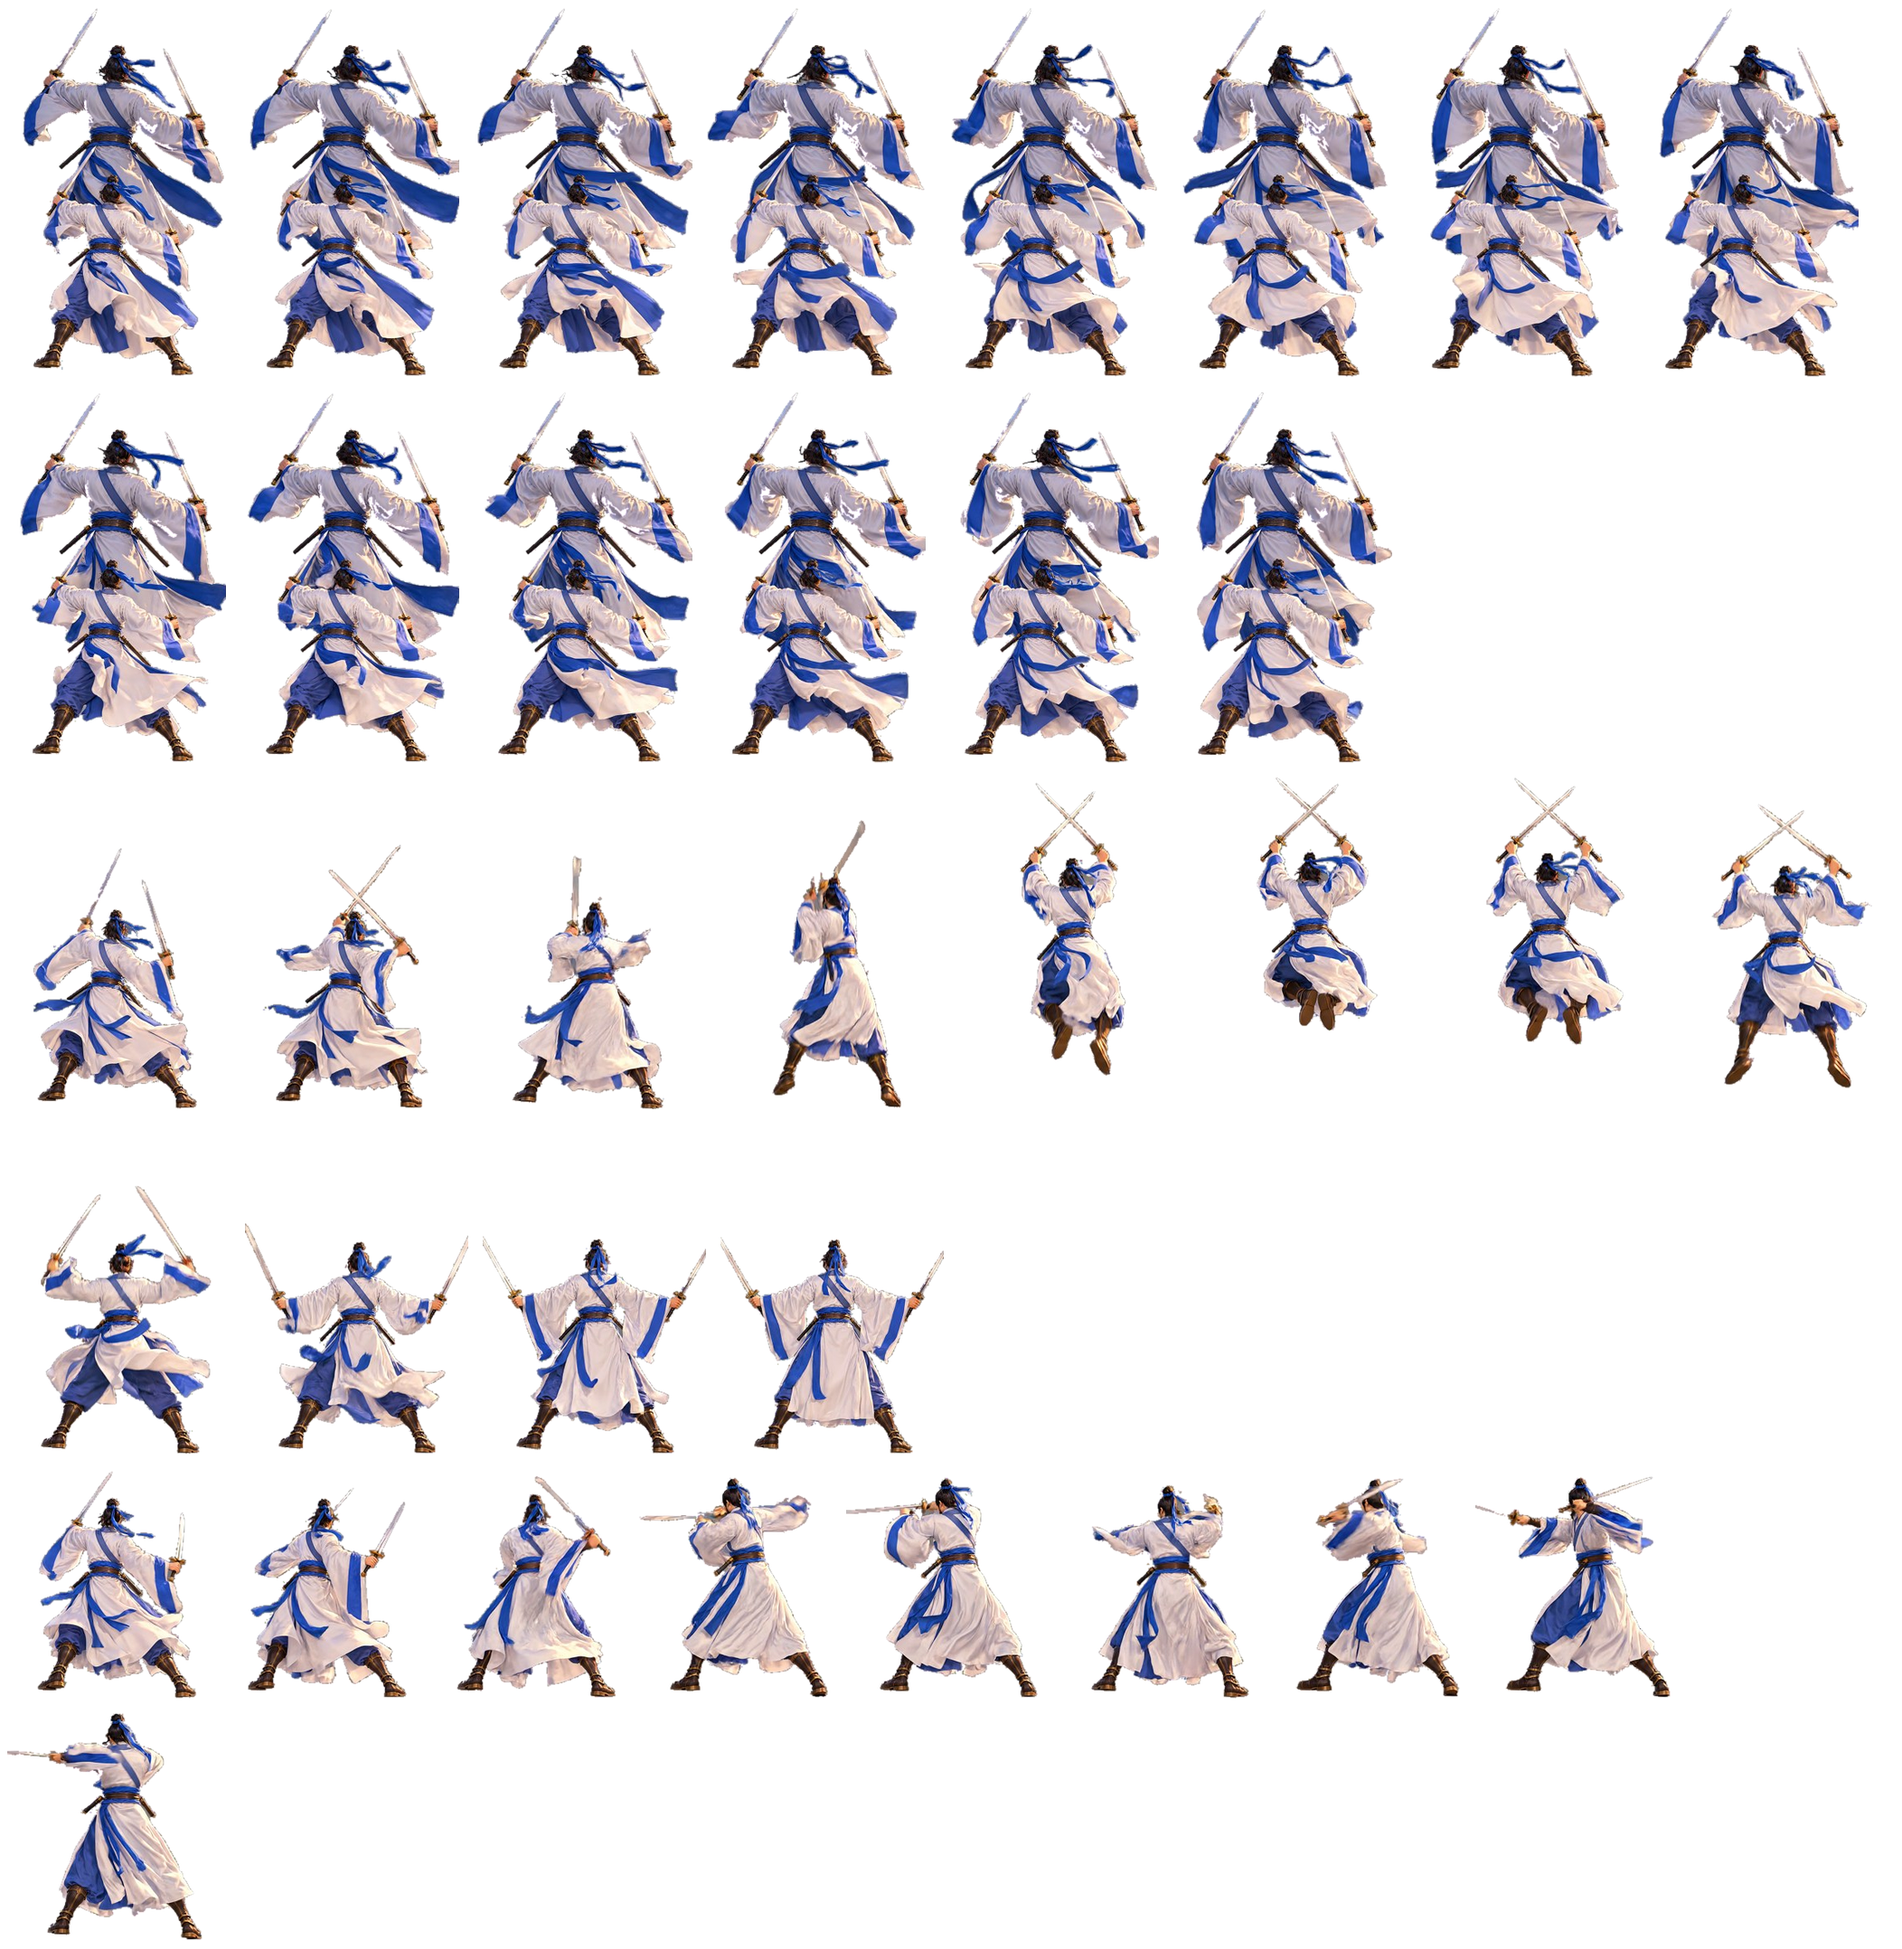
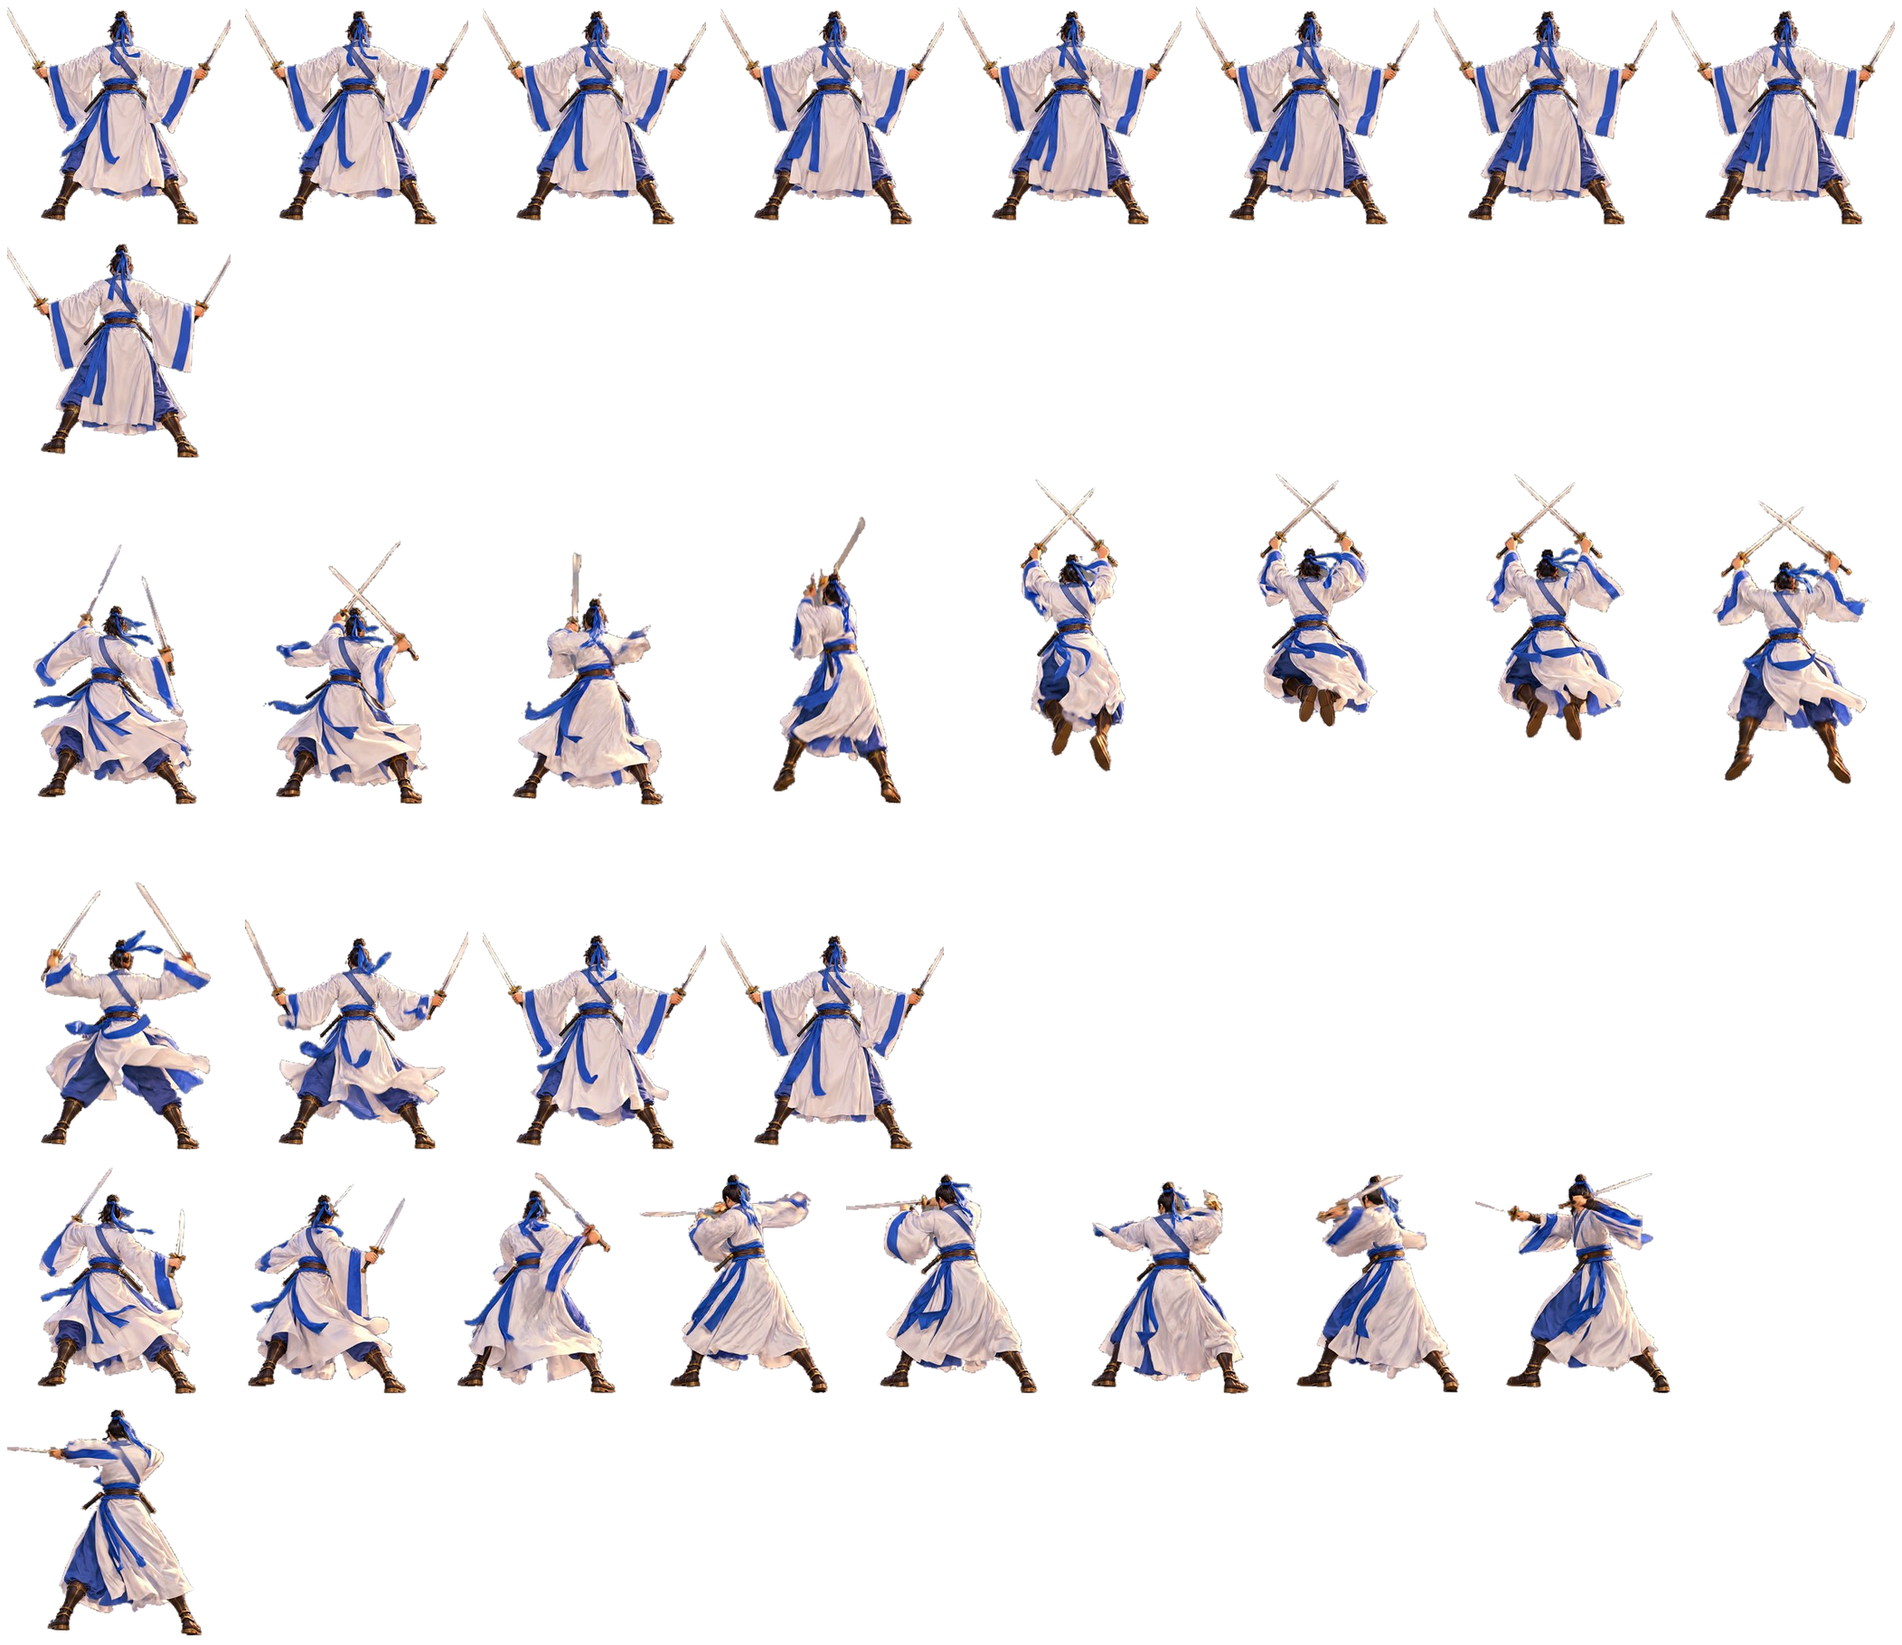
Fix doubled Liu Bei idle; make music reliable and pin ch1 tracks
- Liu Bei's Veo idle clip has two figures stacked in every frame; idle now
  uses the 9 calm frames at the end of his attack clip (31-39), scale fix
  .64 -> .93. cut_generals.py records this in NEW_PLAN.
- Music: reuse three <audio> elements, start/retry play() inside the tap
  (iOS/WeChat reject play() outside a gesture, which left tracks silent),
  resume the AudioContext from 'interrupted' and on returning to the tab.
- Levels 1-10: home music fixed to home_1, battle to war_1, looped.

Claude-Session: https://claude.ai/code/session_01QGEkN8ecAUeAAuNxe7fXQy

diff --git a/原型/守关.html b/原型/守关.html
@@ -3545,11 +3545,11 @@ function drawMerit() {
 const SND = { ac: null, mus: null, sfx: null, noise: null, mode: null, next: 0, step: 0, note: 2, lastHit: 0 };
 const sndCfg = () => (INV.snd = INV.snd || { m: 1, mv: .5, s: 1, sv: .7 });
 function sndInit() {
-  if (SND.ac) { if (SND.ac.state === 'suspended') SND.ac.resume(); return; }
+  if (SND.ac) { if (SND.ac.state !== 'running') SND.ac.resume().catch(() => {}); mpKick(); return; }   // 苹果的浏览器来电、切走再回来后是 'interrupted'，不是 'suspended'——原来只认 suspended，音乐从此不响（10-28 用户：「音乐似乎时有时无」）
   try { const AC = window.AudioContext || window.webkitAudioContext; if (!AC) return; SND.ac = new AC(); } catch (e) { return; }
   const c = SND.ac; SND.mus = c.createGain(); SND.sfx = c.createGain(); SND.mus.connect(c.destination); { const lim = c.createDynamicsCompressor(); lim.threshold.value = -2; lim.knee.value = 4; lim.ratio.value = 12; lim.attack.value = .003; lim.release.value = .25; SND.sfx.connect(lim); lim.connect(c.destination); }   // 声效总线压一下，雷加大了不炸音
   SND.noise = c.createBuffer(1, c.sampleRate, c.sampleRate); const d = SND.noise.getChannelData(0); for (let i = 0; i < d.length; i++) d[i] = Math.random() * 2 - 1;   // 声音的随机不碰游戏随机数
-  sndApply();
+  sndApply(); mpKick();
 }
 function sndApply() { if (!SND.ac) return; const k = sndCfg(); SND.mus.gain.value = k.m ? k.mv * .55 : 0; SND.sfx.gain.value = k.s ? k.sv : 0; }
 function osc(type, f0, f1, t0, dur, vol, out, a = .005) { const c = SND.ac, o = c.createOscillator(), g = c.createGain(); o.type = type; o.frequency.setValueAtTime(f0, t0); if (f1 && f1 !== f0) o.frequency.exponentialRampToValueAtTime(f1, t0 + dur);
@@ -3587,23 +3587,39 @@ function sfx(k) {
 // 按场合分组轮流放，换曲、换场合时淡入淡出；哪一组一首都没有（文件还没生成或读不到），就用下面现合的占位
 const MUSIC = { calm: ['home_1', 'home_2', 'camp_1'], war: ['war_1', 'war_2', 'war_3', 'war_4'], duel: ['duel_1'], story: ['story_1'], omen: ['omen_1'] };
 const MP = { el: null, old: [], want: null, i: 0, fail: new Set() };
+// 10-28 用户：「第一章前 10 关的背景音乐和战斗音乐要固定下来」——前 10 关（打仗时按这一关，主页、结算等按还没打过的第一关）每个场合只放一首、单曲循环，不再轮换
+const MUSIC_FIX = { calm: 'home_1', war: 'war_1' };
+const musicFixed = want => { const id = G && screen === 'play' ? G.lv.id : (LEVELS[frontier()] || {}).id; return id <= 10 && MUSIC_FIX[want] ? [MUSIC_FIX[want]] : null; };
 const musicWant = () => screen === 'story' ? (STP && STP.key === 'l10' ? 'omen' : 'story') : G && screen === 'play' && G.state !== 'over' && !G.sim ? (G.lv.kind === 'duel' ? 'duel' : 'war') : 'calm';
 // 苹果的浏览器（含微信）里 <audio> 的 volume 是只读的、永远 1：原来靠 el.volume 淡入淡出、调到 0 才暂停，所以手机上关不掉、还会几首叠着放（10-26 用户：「网页上关不了音乐音效」）。
 // 现在每首接进 WebAudio：<audio> → 自己的增益（淡入淡出）→ SND.mus（开关、音量，sndApply 管）。el.volume 不再碰
 const mpGain = el => el._g ? el._g.gain.value : 0;
 function mpSetGain(el, v) { if (el._g) el._g.gain.value = v; }
-function mpPlay(name) { const el = new Audio('music/' + name + '.mp3'); el.onerror = () => { MP.fail.add(name); if (MP.el === el) MP.el = null; };
-  try { const src = SND.ac.createMediaElementSource(el), g = SND.ac.createGain(); g.gain.value = 0; src.connect(g); g.connect(SND.mus); el._g = g; } catch (e) { el.volume = 0; }
-  el.onended = () => { if (MP.el === el) { MP.i++; MP.el = null; } }; el.play().catch(() => {}); if (MP.el) MP.old.push(MP.el); MP.el = el; MP.name = name; }
-function mpStop(el) { el.pause(); try { el.removeAttribute('src'); el.load(); } catch (e) {} }
-function musicTick() {
-  if (!SND.ac || SND.ac.state !== 'running') return; const k = sndCfg(), want = musicWant(), duck = SND.duck && SND.ac.currentTime < SND.duck, vol = (k.m ? 1 : 0) * (duck ? .06 : 1), list = MUSIC[want].filter(n => !MP.fail.has(n));
+// 10-28：原来每换一首就 new Audio()、在每帧的 musicTick 里 play()——苹果的浏览器（含微信）不是点屏那一下发起的 play() 会被拒，catch 吞掉以后这首一直「在放」却没声，
+// 要等换场合才再试（用户：「音乐似乎时有时无」）。现在三个 <audio> 第一次点屏时建好、接进 WebAudio，轮着用；被拒的在下一次点屏时补放（mpKick）
+function mpPool() {
+  if (!MP.pool) MP.pool = [0, 1, 2].map(() => { const el = new Audio(); el.preload = 'auto';
+    try { const src = SND.ac.createMediaElementSource(el), g = SND.ac.createGain(); g.gain.value = 0; src.connect(g); g.connect(SND.mus); el._g = g; } catch (e) { el.volume = 0; }
+    el.onerror = () => { if (el._name) MP.fail.add(el._name); if (MP.el === el) MP.el = null; };
+    el.onended = () => { if (MP.el === el) { MP.i++; MP.el = null; } }; return el; });
+  return MP.pool;
+}
+document.addEventListener('visibilitychange', () => { if (!document.hidden && SND.ac && SND.ac.state !== 'running') SND.ac.resume().catch(() => {}); });   // 切回来时把声音接上
+function mpKick() { const el = MP.el; if (!el) musicTick(true); else if (el.paused && !el.ended) el.play().catch(() => {}); }   // 在点屏的那一下里补放被拒的那首
+function mpPlay(name, loop) { const el = mpPool().find(e => e !== MP.el && !MP.old.includes(e)) || MP.old.shift(); if (!el) return;
+  if (el._g) el._g.gain.value = 0; el._name = name; el.loop = !!loop; el.src = 'music/' + name + '.mp3'; el.play().catch(() => {});
+  if (MP.el) MP.old.push(MP.el); MP.el = el; MP.name = name; }
+function mpStop(el) { el.pause(); }   // 只停不清 src：清 src 会晚一点冒出 error，那时这个 <audio> 可能已经换去放别的曲子，会把那首误记成坏的
+function musicTick(force) {   // force：点屏那一下里调，AudioContext 还没转成 running 也先把这首 play() 起来
+  if (!SND.ac || (!force && SND.ac.state !== 'running')) return; const k = sndCfg(), want = musicWant(), duck = SND.duck && SND.ac.currentTime < SND.duck, vol = (k.m ? 1 : 0) * (duck ? .06 : 1), fixed = musicFixed(want), list = (fixed || MUSIC[want]).filter(n => !MP.fail.has(n));
   MP.old = MP.old.filter(el => { const v = Math.max(0, mpGain(el) - .02); mpSetGain(el, v); if (v <= .01 || !el._g) { mpStop(el); return false; } return true; });   // 上一首淡出
   if (!k.m) { if (MP.el) { mpStop(MP.el); MP.el = null; } MP.old.forEach(mpStop); MP.old = []; SND.mode = null; return; }   // 音乐关了：立刻停，不等淡出
   if (!list.length) { if (MP.el) { MP.old.push(MP.el); MP.el = null; } synthTick(want === 'calm' || want === 'story' || want === 'omen' ? 'calm' : 'war'); return; }
   SND.mode = null;
-  if (MP.want !== want) { MP.want = want; MP.i = Math.floor(Math.random() * list.length); MP.el && MP.old.push(MP.el); MP.el = null; }
-  if (!MP.el && vol > 0) mpPlay(list[MP.i % list.length]);
+  const wkey = want + (fixed ? ':' + fixed[0] : '');
+  if (MP.el && MP.el.loop !== !!fixed) MP.el.loop = !!fixed;
+  if (MP.want !== wkey) { MP.want = wkey; MP.i = Math.floor(Math.random() * list.length); MP.el && MP.old.push(MP.el); MP.el = null; }
+  if (!MP.el && vol > 0) mpPlay(list[MP.i % list.length], !!fixed);
   if (MP.el) { const g = mpGain(MP.el); mpSetGain(MP.el, Math.min(1, Math.max(0, g + (vol - g) * (duck ? .35 : .04)))); }
 }
 // 现合的占位音乐：每帧排后面四分之一秒的音符；主页、结算、各页是「静」，打仗时是「战」
@@ -4206,7 +4222,7 @@ function drawReward() {
 // 神兵（10-25 用户发来三张别家「神兵」截图：「画好不同等级的青龙偃月刀等武器，要越来越绚」）：三人的兵器各画五级（ChatGPT 画、工具/matte_weapons.py 抠，img/wpn_<人><1..5>.png），
 // 兵器精炼等级（INV.up.wpn，三人共用）0–4 对应第 1–5 级的样子，+5 用第 5 级再加一圈金光：凡铁、精钢、龙纹、鎏金、神兵、绝世。
 // 一页：中间一把大的斜着、慢慢浮，身后按等级发光（越高越亮、越多颜色），右边三格换着看三人的；底下写下一级要什么、几天后够，够了就打造
-const G_FIX = { guan: { idle: 1.03, atk: .95 }, zhang: { atk: 1.05 }, liu: { idle: .64 } };   // 按图集里身体高度量出来的（行里像素够多才算身体，兵器细杆不算），让三人待机、普攻一样高   // 10-27 新录战场人物：刘备待机首帧蹲得低，按它定的比例画出来大一圈（用户：「大小不一？」），缩回和关张一样高
+const G_FIX = { guan: { idle: 1.03, atk: .95 }, zhang: { atk: 1.05 }, liu: { idle: .93 } };   // 按图集里身体高度量出来的（行里像素够多才算身体，兵器细杆不算），让三人待机、普攻一样高   // 10-27 新录战场人物：刘备待机首帧蹲得低，按它定的比例画出来大一圈（用户：「大小不一？」），缩回和关张一样高   // 10-28 用户：「这里 2 个刘备」——那条待机 Veo 整条都叠了两个人，待机改用普攻那条末尾站定的 9 帧（31–39），比例改回和他普攻一样高
 const ARM = { who: 'guan', t0: 0, flash: 0 };
 const WPN = { guan: '青龙偃月刀', zhang: '丈八蛇矛', liu: '雌雄双股剑' }, WPN_TIER = ['凡铁', '精钢', '龙纹', '鎏金', '神兵', '绝世'];
 const WPN_GLOW = { guan: '90,220,170', zhang: '255,120,60', liu: '110,180,255' }, WPN_ROT = { guan: .62, zhang: .62, liu: .14 };   // 双股剑是交叉的一对，只斜一点

diff --git a/工具/veo/cut_generals.py b/工具/veo/cut_generals.py
@@ -55,6 +55,9 @@ PLAN = {
     'wuanguo': {'idle': ('ram', range(0, 4)), 'ram': ('ram', range(0, 40, 3))},
 }
 
+# 10-27 新画风重录时个别人的段换来源：刘备待机那条 Veo 整条叠了两个人（10-28 用户：「这里 2 个刘备」），改用普攻那条末尾站定的 9 帧
+NEW_PLAN = {'liu': {'idle': ('atk', range(31, 40))}}
+
 # 镜头中途推近了的那几条（10-25：西凉铁骑撞城那条，人马越来越大）：这一段按它自己第一帧的马身宽度缩回和定脚底那条一样大，脚底也用它自己的
 FIT = {('tieqi', 'ram'), ('gaoshun', 'run')}
 
@@ -118,7 +121,7 @@ for g in (sys.argv[2:] or ['guan', 'zhang', 'liu']):
     k = STAND / fig0; bw0 = body(m0)[0]
     strips, meta = [], {'stand': STAND, 'anims': {}}
     import os; NEWP = os.environ.get('NEWPLAN') == '1'   # 10-27 新画风重录：刘关张不用旧的 PLAN（那是按旧视频挑的帧），照 PICK
-    for anim, (src, idx) in (PLAN[g] if g in FOE else {**{a: (a, i) for a, i in PICK.items()}, **({} if NEWP else PLAN.get(g, {}))}).items():
+    for anim, (src, idx) in (PLAN[g] if g in FOE else {**{a: (a, i) for a, i in PICK.items()}, **(NEW_PLAN.get(g, {}) if NEWP else PLAN.get(g, {}))}).items():
         if src not in takes: continue
         tid = takes[src].stem; end = END.get(tid, N - 1); cs = cells(takes[src])
         frames = []
